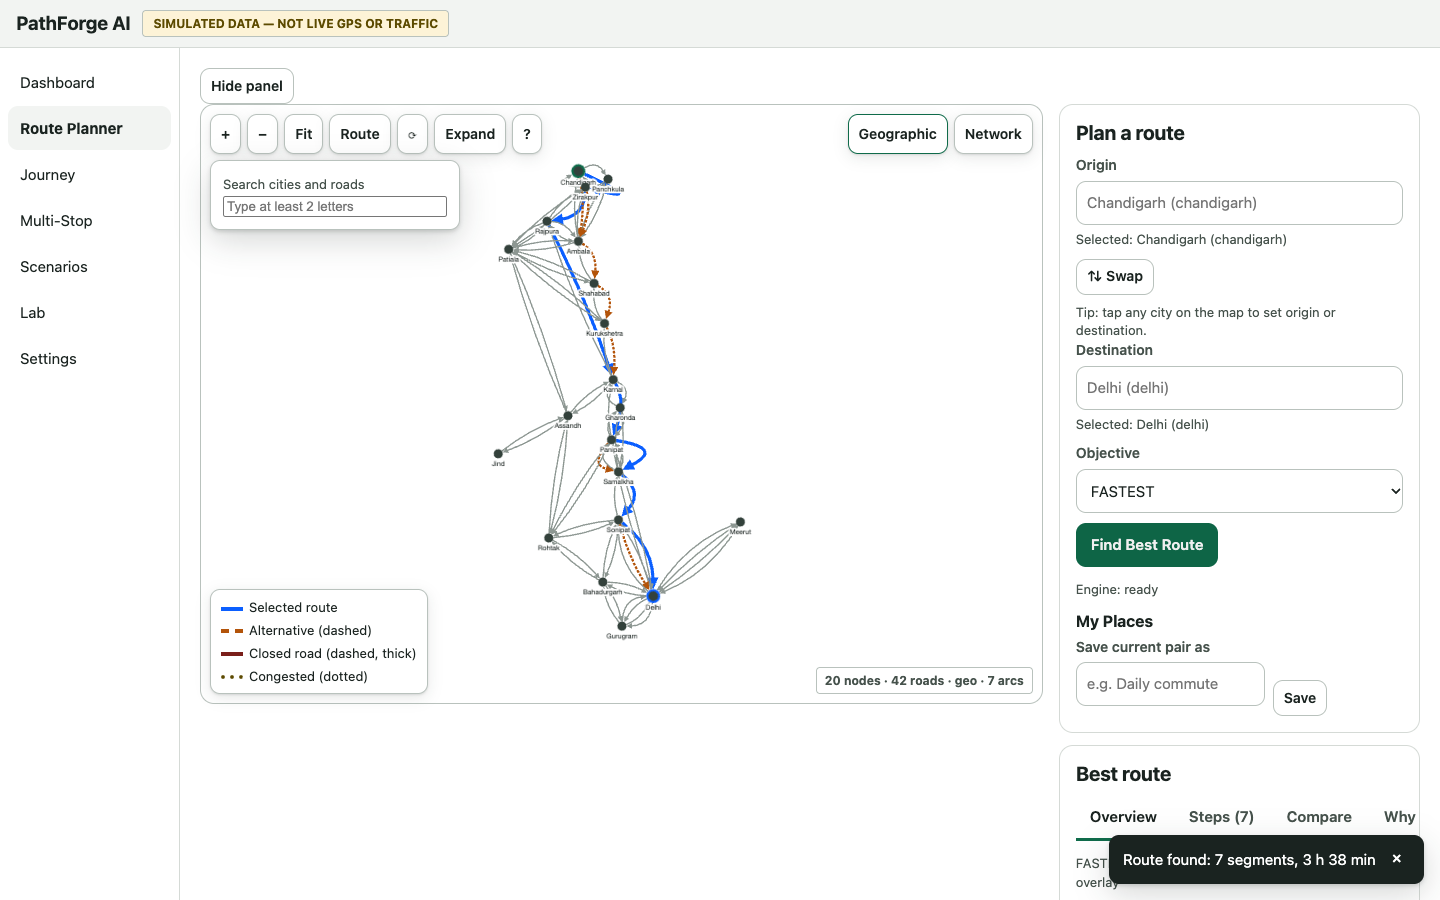
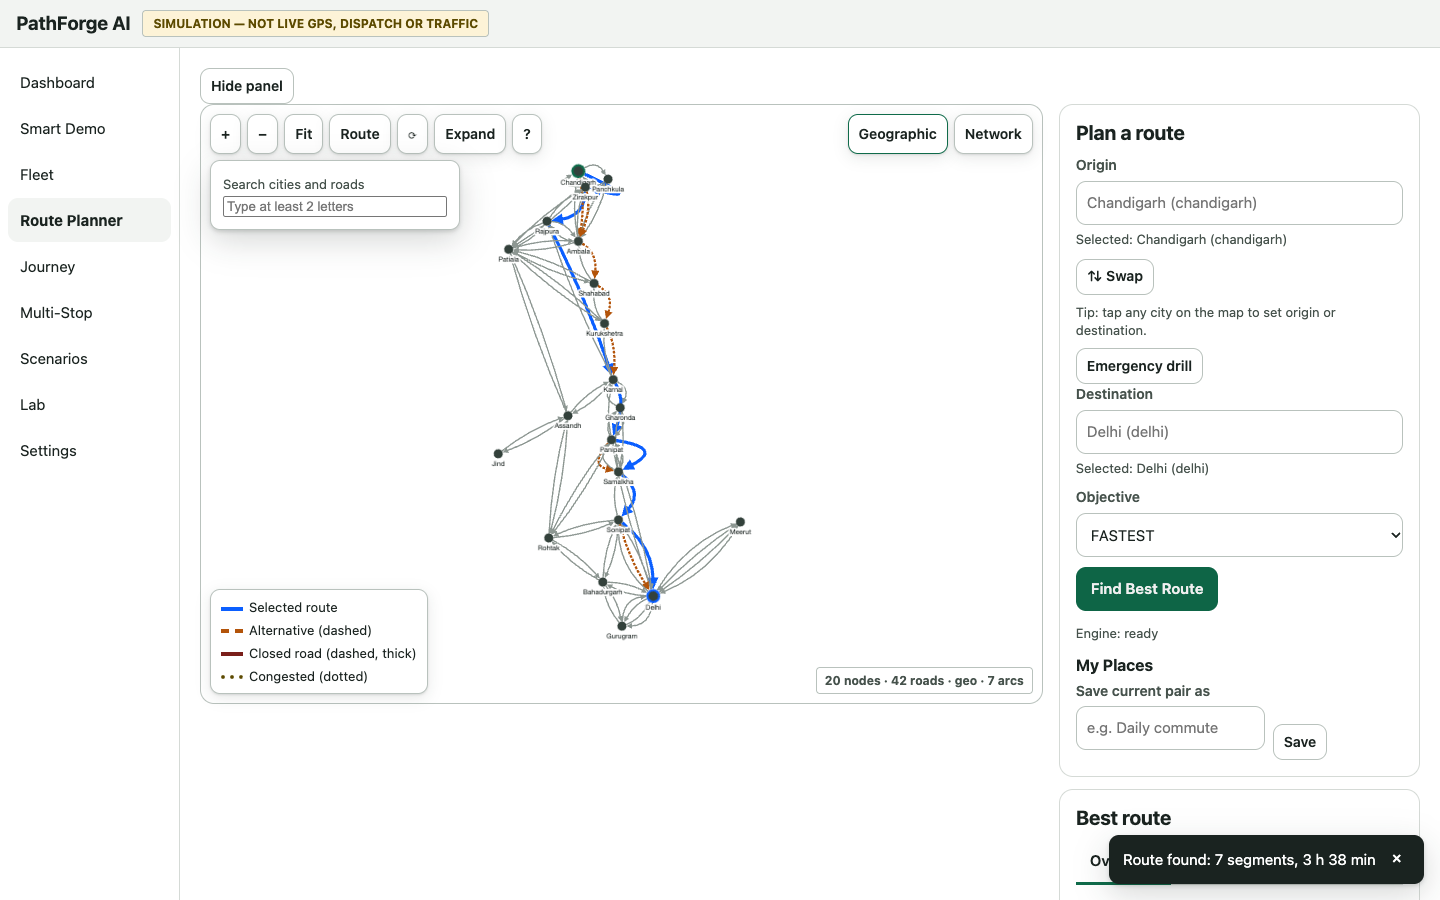
V7: regression green, screenshots, V2 docs, demo script
- verify-all 9/9: 65/65 gtest, 65/65 sanitizer, 32/32 parity,
  32/32 E2E (16 old + 16 new), audit 0 vulns
- screenshots.spec: demo + fleet + fleet-incident captures;
  refreshed existing shots (new nav + banner)
- docs: V2_DEMO_SCRIPT, V2_VIVA_QA, V2_FEATURES_AND_LIMITATIONS,
  V2_TEST_REPORT; README 2.0 updates

diff --git a/frontend/e2e/screenshots.spec.ts b/frontend/e2e/screenshots.spec.ts
@@ -34,6 +34,31 @@ test('release screenshots', async ({ page }) => {
   await page.waitForTimeout(1000);
   await page.screenshot({ path: path.join(SHOTS, 'lab.png') });
 
+  await page.goto('/#/demo');
+  await page.getByTestId('engine-status').filter({ hasText: 'ready' }).waitFor({ timeout: 30000 });
+  await page.getByTestId('demo-guided').uncheck();
+  await page.getByTestId('demo-speed').selectOption('600');
+  await page.getByTestId('demo-start').click();
+  await expect(page.getByTestId('demo-decision')).toBeVisible({ timeout: 90000 });
+  await page.waitForTimeout(800);
+  await page.screenshot({ path: path.join(SHOTS, 'demo.png') });
+  await page.getByTestId('demo-accept').click();
+  await expect(page.getByTestId('demo-receipt')).toBeVisible({ timeout: 30000 });
+  await page.getByTestId('demo-replay').click();
+
+  await page.goto('/#/fleet');
+  await page.getByTestId('fleet-speed').selectOption('60');
+  await page.getByTestId('fleet-start').click();
+  await expect(page.getByTestId('fleet-vehicle-V5')).toBeVisible({ timeout: 60000 });
+  await page.waitForTimeout(2500);
+  await page.getByTestId('fleet-show').selectOption('all');
+  await page.waitForTimeout(500);
+  await page.screenshot({ path: path.join(SHOTS, 'fleet.png') });
+  await page.getByTestId('fleet-preset-closure').click();
+  await expect(page.getByTestId('fleet-vdecision-V1')).toBeVisible({ timeout: 60000 });
+  await page.waitForTimeout(500);
+  await page.screenshot({ path: path.join(SHOTS, 'fleet-incident.png') });
+
   await page.goto('/#/settings');
   await page.getByTestId('theme-toggle').click();
   await expect(page.locator('html')).toHaveAttribute('data-theme', 'dark');

diff --git a/README.md b/README.md
@@ -1,14 +1,19 @@
 # PathForge AI — Intelligent Route Optimization & Graph Algorithm Visualization System
 
-> **SIMULATED DATA — NOT LIVE GPS OR TRAFFIC.** All roads, times, tolls and
+> **SIMULATION — NOT LIVE GPS, DISPATCH OR TRAFFIC.** All roads, times, tolls and
 > incidents are synthetic (`datasets/sample-networks/north-india-sim-v1.json`,
 > 20 vertices / 42 roads). See `docs/data-provenance.md` before reusing the
 > dataset; OpenStreetMap data carries ODbL obligations if you substitute it.
 
-A hybrid navigation simulator + ADSA laboratory. Every route, diversion,
-multi-stop tour and lab trace is computed by a genuine C++17 engine compiled
-to WebAssembly; React + TypeScript + Cytoscape.js only render engine facts.
-There is no pathfinding in TypeScript — `scripts/antifake.sh` enforces this.
+An intelligent traffic & fleet decision system: one-click Smart Journey Demo,
+5-vehicle Fleet Command Center, explainable routing, and an ADSA laboratory.
+Every route, diversion, multi-stop tour and lab trace is computed by a genuine
+C++17 engine compiled to WebAssembly; React + TypeScript + Cytoscape.js only
+render engine facts. There is no pathfinding in TypeScript —
+`scripts/antifake.sh` enforces this.
+
+Faculty fast path: start the app, open `#/demo`, click **Start Smart Demo**.
+Full script: `docs/V2_DEMO_SCRIPT.md`; Q&A bank: `docs/V2_VIVA_QA.md`.
 
 ## Quickstart (fresh clone)
 
@@ -36,7 +41,7 @@ Useful commands:
 | `bash scripts/bench-engine.sh [seed]` | Seeded micro-benchmarks → `docs/benchmarks/` |
 | `bash scripts/coverage.sh` | Measured line coverage → `docs/testing/coverage.md` |
 | `bash scripts/antifake.sh` | No TS pathfinding; worker delegates to WASM |
-| `cd frontend && npx playwright test` | 10/10 browser E2E incl. 14-step hero demo |
+| `cd frontend && npx playwright test` | 32/32 browser E2E incl. demo, fleet, explain, mobile |
 
 ## Architecture
 
@@ -48,9 +53,9 @@ React pages ──► EngineClient ──► WASM worker ──► C++ engine (D
       └────────────── engine facts only ─────────────────┘
 ```
 
-Pages: Dashboard, Route Planner, Journey Simulator, Multi-Stop Planner,
-Scenario Comparison, Algorithm Laboratory, Settings — see
-`docs/architecture/`. The engine ABI is a stateless JSON envelope
+Pages: Dashboard, Smart Demo, Fleet Command Center, Route Planner, Journey
+Simulator, Multi-Stop Planner, Scenario Comparison, Algorithm Laboratory,
+Settings — see `docs/architecture/` and `docs/V2_ARCHITECTURE_AND_BASELINE.md`. The engine ABI is a stateless JSON envelope
 (`engine.info`, `route.find/alternatives/evaluate/compare/multistop`,
 `lab.run/compare`, `scenario.compare`, `diversion.evaluate`,
 `network.validate`).
@@ -72,7 +77,8 @@ Scenario Comparison, Algorithm Laboratory, Settings — see
 ## Verification status
 
 M0–M11 verified with tags `m1-verified … m11-verified`; release `v1.0.0`.
-65/65 gtest, sanitizers clean, 32/32 parity, 10/10 E2E, audit 0 findings.
+65/65 gtest, sanitizers clean, 32/32 parity, 32/32 E2E, audit 0 findings.
+2.0 work-in-progress lives on branch `fleet-2.0` (V0–V8, unmerged).
 Traceability: `docs/TRACEABILITY.md` (44 VERIFIED). Known exception: C++
 line coverage below the 90% aspiration in `yen/lab/diversion/engine`
 — see `docs/testing/c3-demo-report.md`.
@@ -91,8 +97,9 @@ Full script: `docs/demo-script.md`. Q&A bank: `docs/viva.md`.
 
 - Built a C++17 routing engine (Dijkstra/A*/Yen/Held-Karp/Prim/Kruskal,
   diversion policy) compiled to WASM with 65/65 gtest + ASan/UBSan clean.
-- Drove 10/10 Playwright E2E against real-engine oracles (native binary as
-  independent checker), incl. a 14-step hero demo and journey/diversion flows.
+- Drove 32/32 Playwright E2E against real-engine oracles (native binary as
+  independent checker), incl. smart demo, 5-vehicle fleet, explainability and
+  mobile flows.
 - Measured native↔WASM parity (32/32), seeded benchmarks to 4900 nodes, and
   line coverage; shipped zero-vulnerability deps and release `v1.0.0`.
 

diff --git a/docs/V2_VIVA_QA.md b/docs/V2_VIVA_QA.md
@@ -1,0 +1,56 @@
+# PathForge AI 2.0 — Viva Q&A
+
+## Dijkstra
+- Runs on directed road arcs; weight = effective seconds under the overlay.
+- Optimal for nonnegative weights. O((V+E) log V), binary heap.
+- Sources: `engine/src/dijkstra.cpp`, `engine/src/objectives.cpp`.
+
+## A*
+- Same weights + straight-line heuristic. Optimal only if the heuristic is
+  admissible (never overestimates). O((V+E) log V) worst case.
+- Source: `engine/src/astar.cpp`.
+
+## Yen K-shortest paths
+- Ranked loop-less alternatives over identical engine weights; powers the
+  Compare tab, demo alternates, and the evidence drawer deltas.
+- Source: `engine/src/yen.cpp`.
+
+## BFS / DFS
+- Unweighted traversal; BFS gives fewest-hop order. O(V+E).
+- Sources: `engine/src/traversal.cpp`, traces in `engine/src/lab.cpp`.
+
+## MST (Prim / Kruskal)
+- Lab runs both and checks agreement (FOREST when closures split the graph).
+- Kruskal O(E log E) with DSU; Prim O((V+E) log V).
+- Sources: `engine/src/prim.cpp`, `engine/src/kruskal.cpp`.
+
+## Multi-stop
+- Leg matrix of engine shortest paths + ordering heuristic. Exact TSP is
+  NP-hard, so the ordering is heuristic while every leg stays optimal.
+
+## Diversion policy
+- Stateless: STAY / RECOMMEND_DIVERSION / REROUTE_REQUIRED /
+  NO_ROUTE_AVAILABLE from engine facts only. Cooldowns, dismissal
+  signatures, blocked-alert bypass. Accept validates overlay version +
+  position fingerprint (stale accepts fail safe).
+- Source: `engine/src/diversion.cpp`.
+
+## WASM architecture
+- React → EngineClient (typed calls, per-channel stale suppression) →
+  Web Worker → WASM `pf_execute(JSON)` → C++ engine → JSON → Zod → store.
+- Native `pf_contract_runner` is the independent E2E oracle; parity is
+  byte-compared on 32 fixtures (masked timings/build).
+
+## Data structures
+- Adjacency lists, binary heaps, DSU, hash maps for overlays/policies.
+
+## Simulation limitations (say honestly)
+- Synthetic 20-city network; times/distances are plausible, not measured.
+- No live GPS, traffic, dispatch, or hospitals. Speed multipliers compress
+  simulated time; animation follows engine durations, never the reverse.
+- "AI" = classical algorithms + policy. No machine learning is claimed.
+
+## Design tradeoffs
+- Stateless engine: deterministic, WASM-safe, testable; UI holds state.
+- Engine calls on events only, never per animation frame (fleet scales).
+- Closures/congestion are overlay inputs; the base graph is never mutated.

diff --git a/docs/V2_DEMO_SCRIPT.md b/docs/V2_DEMO_SCRIPT.md
@@ -1,0 +1,42 @@
+# PathForge AI 2.0 — 2-minute faculty demo script
+
+Setup: `cd pathforge-ai/frontend && npm run preview -- --port 8471 --strictPort`,
+open http://localhost:8471/#/demo in Chrome. Enable Presenter mode on the
+demo page for larger type. Everything below is simulated; say so once upfront.
+
+## Act 1 — Smart Demo (90 seconds)
+
+1. Click **Start Smart Demo** (guided mode preselected, 600×).
+   Say: "One click. The C++ engine plans the fastest Chandigarh–Delhi route
+   plus two genuine Yen alternatives — times, tolls, deltas on screen."
+2. Watch the vehicle leave with the trail and S/F flags; narrator tracks stages.
+   Say: "Durations come from per-arc engine evaluations, not animation timing."
+3. The SIMULATED closure hits ex03 ahead; the sim pauses at Decide.
+   Say: "A closure on our own future route. The diversion policy recomputed
+   from our exact position: REROUTE_REQUIRED, blocked current plan, and a
+   recommended ETA. Nothing here is scripted except the incident location."
+4. Click **Accept Diversion**.
+   Say: "No teleport — we resume mid-arc on the engine-returned plan."
+5. Open the **Decision receipt**, then **Why This Route?**.
+   Say: "Overlay version, policy reason, estimate, my action. Edge-by-edge
+   costs sum exactly to the engine total — the drawer proves the match."
+
+## Act 2 — Fleet (45 seconds)
+
+1. Open **Fleet**, click **Start Fleet** (5 vehicles, 60×).
+   Say: "Five independent vehicles, one shared overlay, one engine."
+2. Click **Major Closure**.
+   Say: "ex04 closes. Watch: corridor vehicles get decisions, the western
+   vehicles don't blink, and the vehicle already on ex04 finishes its arc —
+   the policy decides per vehicle."
+3. Point at KPIs + event feed.
+   Say: "Remaining time, affected count, reroutes — all sums over live
+   per-vehicle engine facts."
+
+## Act 3 — Evidence (25 seconds)
+
+1. Open **Algorithm Lab**, run Dijkstra, step the trace.
+   Say: "Authentic engine trace events — visit, discover, relax — and the
+   MST agreement check."
+2. If asked about ML: "There is none claimed. This is classical
+   algorithms + a decision policy over simulated data."

diff --git a/docs/V2_TEST_REPORT.md b/docs/V2_TEST_REPORT.md
@@ -1,0 +1,47 @@
+# PathForge AI 2.0 — test report (V7)
+
+Branch `fleet-2.0`. Every count below was executed, not inferred.
+
+## Full gate: `bash scripts/verify-all.sh` — 9/9 PASS
+
+| Stage | Result |
+|---|---|
+| native-build | PASS |
+| unit-tests | 65/65 PASS |
+| sanitizer (ASan+UBSan) | 65/65 PASS |
+| wasm-build | PASS |
+| contract-parity | 32/32 PASS (native↔WASM byte-identical, masked metadata) |
+| frontend-build (`tsc` + `vite build`) | PASS |
+| e2e (`npx playwright test`) | 32/32 PASS |
+| bench | PASS |
+| antifake (no TS pathfinding) | PASS |
+
+## E2E breakdown (32 total)
+
+- 16 pre-existing specs (route, journey, traffic, multistop, scenarios,
+  lab, demo, a11y, redesign, screenshots): all green, unmodified
+  assertions — full regression preserved.
+- `e2e/smart-demo.spec.ts` (3): accept path with receipt + summary +
+  continuity probes; stay path; guided pace + narration.
+- `e2e/fleet.spec.ts` (6): 5-vehicle independence; incident relevance
+  (only V1 notified); major closure multi-affect incl. occupied-arc
+  stay; genuine NO_ROUTE blocked (rohtak→jind + wr10); full completion
+  with KPI reconcile; pause/resume/add/remove/reset + traffic cleanup.
+- `e2e/explain.spec.ts` (5): edge sums equal engine totals (exact
+  string compare of seconds + metres); demo + fleet receipts pin
+  overlay v3, policy, action; viva toggle; emergency preset.
+- `e2e/v2-mobile.spec.ts` (2): demo + fleet flows at 390×844.
+
+## Other checks
+- `npm audit --omit=dev`: 0 vulnerabilities.
+- Engine probes (native runner): fleet pairs reachable, ex03 closure →
+  REROUTE_REQUIRED, wr10 closure on jind run → NO_ROUTE_AVAILABLE,
+  per-arc sums == route totals (13080 s / 334257 m).
+- Screenshots `docs/screenshots/{demo,fleet,fleet-incident}.png` captured
+  from real runs and visually reviewed.
+
+## Known limitations
+- Coverage gaps unchanged from v1.0.0 (engine untouched by V2).
+- Fleet periodic diversion checks run every 180 sim-s per vehicle; a
+  decision can lag a fast vehicle at 3600× by a few seconds of wall time.
+- Preview server is session-bound (macOS, no setsid detachment).

diff --git a/docs/benchmarks/BENCH.md b/docs/benchmarks/BENCH.md
@@ -1,26 +1,26 @@
 # PathForge AI micro-benchmarks (M11)
 
-- date: 2026-11-02T13:30:24Z
+- date: 2026-11-02T15:08:29Z
 - machine: arm64 27.0.1
 - compiler: Apple clang version 21.0.0 (clang-2100.3.34.2)
 - flags: -O3 -DNDEBUG (native-release preset)
-- commit: 2cb0f90
+- commit: a93d664
 - seed: 42
 - graphs: seeded grids 10x10 / 32x32 / 70x70 (100/1024/4900 nodes)
 - reps: 20 / 10 / 5; columns: median_ms, p95_ms, visited_or_edges, heap_ops
 
 ```
 algo,nodes,edges,median_ms,p95_ms,visited_or_edges,heap_ops
-dijkstra,100,360,0.009,0.027,100,113
-astar,100,360,0.017,0.024,96,125
-prim,100,360,0.015,0.035,99,155
-kruskal,100,360,0.025,0.036,99,0
-dijkstra,1024,3968,0.173,0.188,1024,1144
-astar,1024,3968,0.285,0.373,1019,1260
-prim,1024,3968,0.165,0.204,1023,1668
-kruskal,1024,3968,0.295,0.360,1023,0
-dijkstra,4900,19320,1.448,1.523,4900,5402
-astar,4900,19320,2.075,2.100,4838,5778
-prim,4900,19320,0.869,1.052,4899,8101
-kruskal,4900,19320,2.036,2.136,4899,0
+dijkstra,100,360,0.007,0.024,100,113
+astar,100,360,0.016,0.025,96,125
+prim,100,360,0.013,0.033,99,155
+kruskal,100,360,0.021,0.032,99,0
+dijkstra,1024,3968,0.160,0.173,1024,1144
+astar,1024,3968,0.276,0.331,1019,1260
+prim,1024,3968,0.155,0.186,1023,1668
+kruskal,1024,3968,0.288,0.344,1023,0
+dijkstra,4900,19320,1.465,1.505,4900,5402
+astar,4900,19320,1.995,2.079,4838,5778
+prim,4900,19320,0.851,1.027,4899,8101
+kruskal,4900,19320,1.871,2.000,4899,0
 ```

diff --git a/docs/V2_FEATURES_AND_LIMITATIONS.md b/docs/V2_FEATURES_AND_LIMITATIONS.md
@@ -1,0 +1,24 @@
+# PathForge AI 2.0 — features vs limitations
+
+## Real algorithmic computation
+- All routing: Dijkstra / A* in C++17, compiled to native + WebAssembly.
+- Alternatives: Yen K-shortest paths. Traversal/MST: BFS/DFS/Prim/Kruskal.
+- Every diversion decision: stateless C++ policy over live overlay +
+  position (STAY / RECOMMEND / REROUTE_REQUIRED / NO_ROUTE).
+- ETAs/durations/distances: engine `route.evaluate` per directed arc.
+- Demo incident targeting: deterministic search calling the real policy.
+- Fleet effects: per-vehicle engine checks; relevance is policy-decided.
+- Evidence drawer: per-edge engine re-evaluation with sums-vs-total match.
+- Native↔WASM parity: 32/32 fixtures byte-identical (masked metadata).
+
+## Simulated (explicitly labeled in-UI)
+- The 20-city network, distances, times, tolls: synthetic, plausible.
+- Incidents/closures/congestion: user- or script-triggered overlay edits.
+- Vehicles, clocks, speed multipliers: simulation presentation.
+- "Savings": engine estimates at decision time, never realized savings.
+- Emergency drill: fastest-path preset with honest no-dispatch disclaimer.
+
+## Roadmap to real roads (not implemented)
+- Import OSM graph extracts; map-match GPS traces; calibrate weights.
+- Live feeds would need versioned overlay ingestion + staleness policy.
+- Fleet capacity/routing with time windows is a separate optimization layer.
